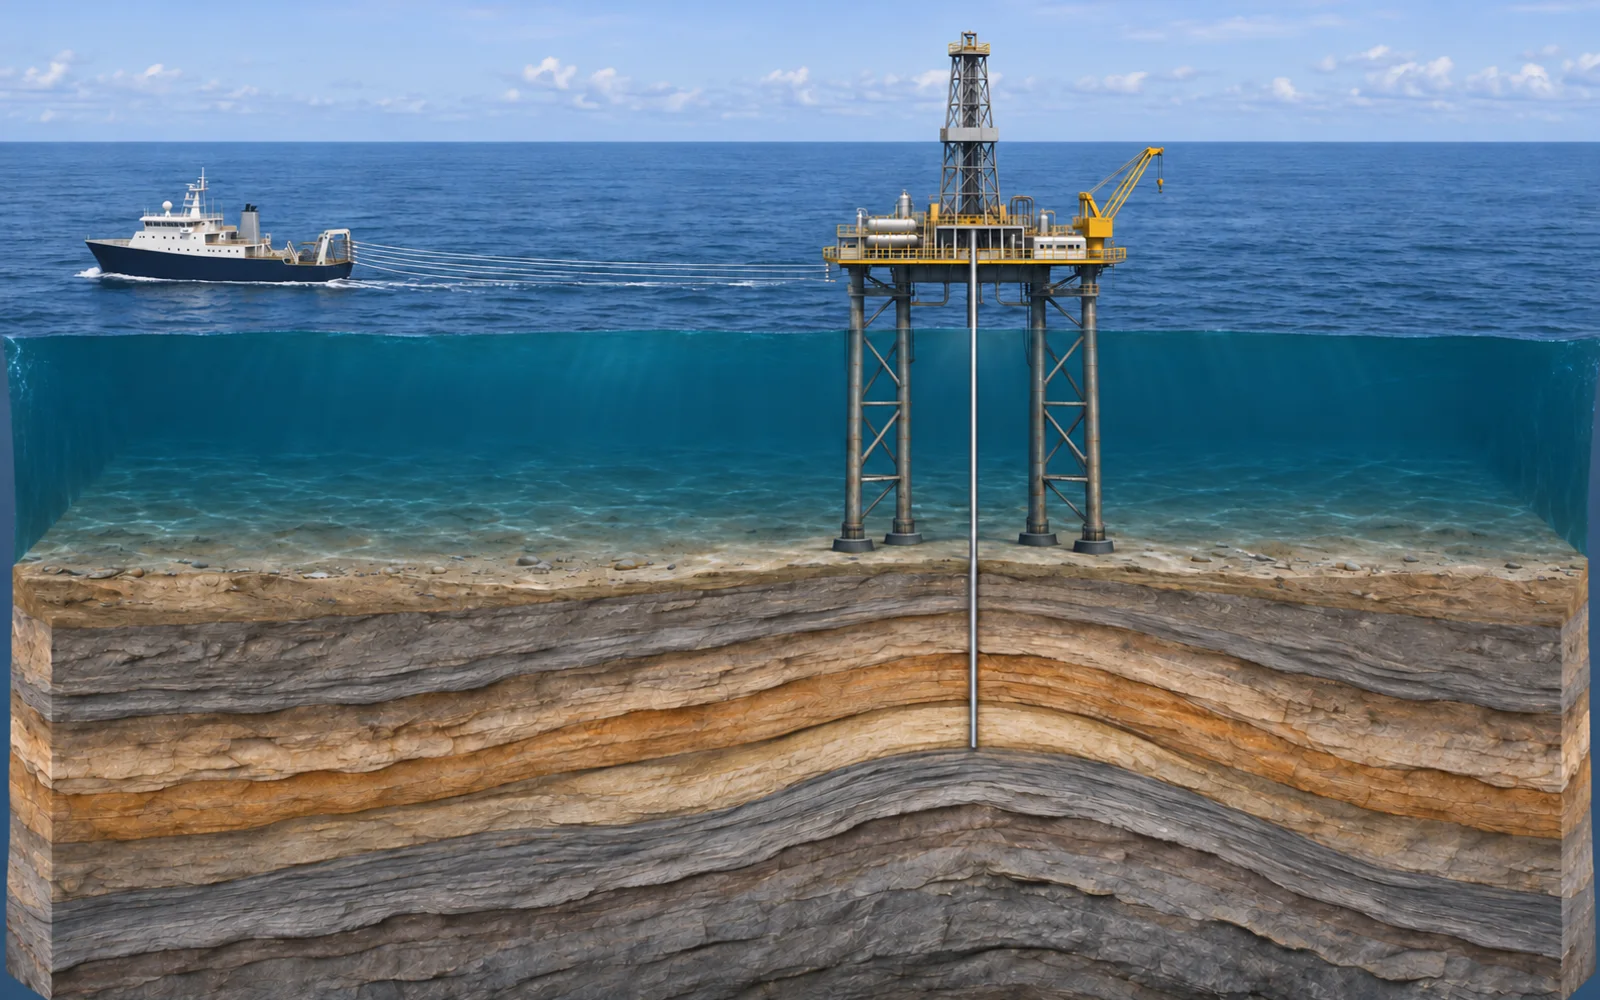
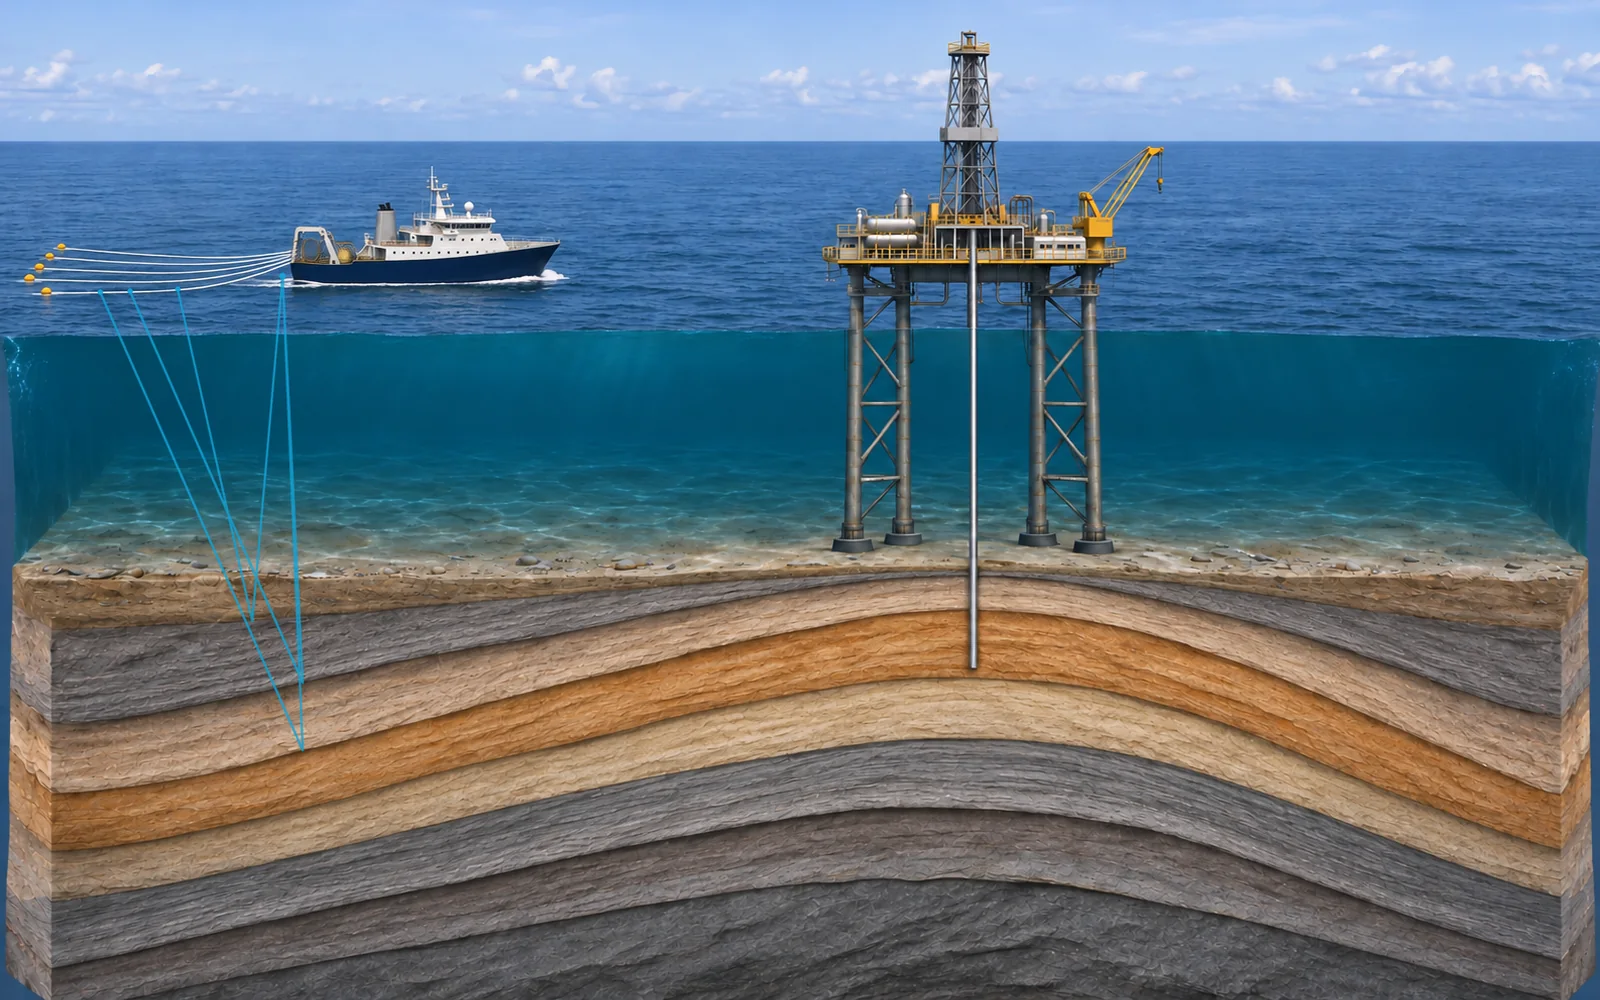
Technology 1.1: show seismic ray paths in opening cutaway

diff --git a/public/images/technology/geophysics/README.md b/public/images/technology/geophysics/README.md
@@ -112,7 +112,7 @@ Fictional illustrative scene, not a real company, equipment model, site or surve
 ## Topic 1.1 — Role of Reservoir Geophysics opening cutaway
 
 - 생성 날짜: 2026-11-09
-- 생성 도구: Codex 내장 image_gen (기본 내장 도구 모드, 생성 1회 및 표식 제거 수정 2회)
+- 생성 도구: Codex 내장 image_gen 장면 + 승인된 프로그램 음파 오버레이 (자세한 수정 이력은 아래 참고)
 - 설명: 가상의 장면을 표현한 AI 생성 이미지. 실제 회사·선박·시설·조사 자료를 재현한 것이 아닙니다.
 - 출력: 1600×1000, WebP 품질 84. 원본 PNG는 Codex 생성 이미지 폴더에 보관하며 저장소에 포함하지 않습니다.
 - 검수: 전체 장면과 확대된 선체·선실·리그·크레인·장비를 확인했습니다. 탐사선 1척과 선미에 연결된 스트리머, 배사 지층, 리그 1기와 그 아래로 이어지는 수직 시추정 1개를 확인했습니다.
@@ -149,6 +149,92 @@ Use case: precise-object-edit. Preserve this exact offshore cutaway image and al
 
 | 파일 | 출력 크기 | 품질 | 크기 (bytes) |
 | --- | --- | --- | --- |
-| gp-role-cutaway.webp | 1600×1000 | 84 | 193448 |
+| gp-role-cutaway.webp | 1600×1000 | 84 | 200390 |
 
 - 크기 맞춤: 원본 1586×992에서 가장자리만 비율을 맞춘 뒤 1600×1000으로 변환했습니다.
+
+
+### 후속 수정 — 스트리머·배사 구조·탄성파 반사 경로 (2026-11-09)
+
+- 최종 장면은 Codex 내장 image_gen으로 생성·수정했습니다. 탐사선은 오른쪽을 향하고, 스트리머는 왼쪽 열린 바다의 꼬리 부표에서 끝나며 리그와 연결되지 않습니다. 배사 구조를 강화하고 수직 시추정이 상부 배사 지층 안에서 끝나도록 수정했습니다.
+- 채택 원본: `exec-7f56e620-60f1-43c6-851f-386f6d5a2e24.png` (1586×992). 이 장면은 그대로 유지하고, 코디네이터의 명시적 승인에 따라 **음파 경로 3개와 음원·수신기 점만 프로그램으로 합성**했습니다. 배경 장면 전체를 절차적으로 그린 이미지가 아닙니다.
+- 내장 도구로 음파 경로 생성을 7회 시도했으나, 끊긴 선·잘못된 반사점·꼬리 선분 등의 문제로 모두 폐기했습니다. 아래에 해당 프롬프트를 기록하며, 최종 이미지에는 이 실패 출력들을 사용하지 않았습니다.
+
+#### 프로그램 오버레이 방법
+
+- 좌표는 원본 1586×992의 왼쪽 위를 (0, 0)으로 한 픽셀 좌표입니다. 공통 음원 S = (280, 274)는 선미 바로 뒤의 물에 있습니다. 수신점은 왼쪽으로 예인되는 가장 아래 스트리머의 밝은 케이블 중심 픽셀에서 찾았습니다.
+- 각 반사점 P는 눈에 보이는 지층 경계의 어두운 이음선을 측정해 정했습니다. 경계 주변 40px 구간의 9개 점을 최소제곱 직선으로 근사해 국소 접선 기울기 m을 구했습니다. 접선과 직교하는 단위 법선 n = normalize((-m, 1)), 입사 단위 벡터 d = normalize(P − S), 반사 벡터 r = d − 2(d·n)n을 사용했습니다. P + t·r과 스트리머 케이블이 만나는 점을 수신점 R로 삼았습니다.
+- 각 경로는 S → P → R의 두 직선 선분이며, 반사점 아래로 이어지는 선·화살표·추가 가지가 없습니다. 아래 각도는 측정한 국소 경계 법선에 대한 영상 평면상의 각도입니다.
+
+| 반사 경계 | 반사점 P | 국소 기울기 m | 스트리머 수신점 R | 입사각 = 반사각 |
+| --- | --- | --- | --- | --- |
+| 얕은 갈색층 / 회색 셰일 | (250, 616) | −0.0666667 | (176.21097, 287) | 8.82719° |
+| 회색 셰일 / 밝은 사암 | (300, 677) | −0.2366667 | (128.96144, 289) | 10.47388° |
+| 밝은 사암 / 황갈색 사암 | (300, 744) | −0.2333333 | (99.46490, 290) | 10.69737° |
+
+- 더 깊은 반사일수록 수신점은 스트리머를 따라 선미에서 더 멀리 있습니다. 계산한 입사각·반사각 차이는 10⁻⁸도 미만입니다. 지층 경계 자체는 교육용 AI 장면에서 측정한 값이며 실제 지질 자료가 아닙니다.
+- Pillow RGBA 오버레이를 4배 해상도에서 안티앨리어싱했습니다. 선은 cyan `#12A4D9`, 원본 기준 약 2.2px, 알파 190/255, 둥근 이음이며 0.65px 흐림의 매우 약한 광채(기본 알파의 16%)만 추가했습니다. 음원 반지름은 3.2px, 수신점 반지름은 2.6px입니다.
+- 원본 장면의 위·아래 가장자리 0.375px씩만 잘라 정확한 16:10으로 맞춘 뒤 동일 배율로 1600×1000으로 리샘플링해 반사각을 보존했습니다. WebP 품질 84, 200390 bytes입니다. 생성 장면과 오버레이 외의 콘텐츠·도식·코드는 수정하지 않았습니다.
+- 최종 이미지 전체와 확대된 음원·스트리머 수신점·반사점·선체·리그·크레인·장비를 확인했습니다. 세 경로가 각각 음원에서 출발해 경계에서 반사된 뒤 스트리머 수신점에 닿고, 리그·시추정을 통과하지 않으며 글자처럼 보이는 표식이 없음을 확인했습니다.
+
+#### 채택한 장면 수정 프롬프트 — 스트리머 분리와 배사 강화
+
+```text
+Use case: precise-object-edit. Correct exactly two scientific/composition problems in this offshore cutaway, preserving its realistic 3D cutaway rendering style, pale daylight sky, calm blue sea, transparent water column, flat seabed, single navy and white survey vessel, single yellow and grey drilling rig, muted sandstone and grey shale colors, lighting, and 16:10 landscape framing.
+FIRST: replace the vessel's direction and streamer geometry. Keep the one vessel in the LEFT HALF, around one third of the image width, but turn it so its pointed BOW faces RIGHT and its wide STERN faces LEFT. Several thin streamer cables must connect ONLY to the LEFT-facing stern and trail LEFTWARD across open sea, ending in small unmarked tail buoys BEFORE the left image edge. Show the full cables and tail buoys. Completely erase ALL existing cables between vessel and rig. The large area of sea between the vessel's right-facing bow and the rig MUST be clear uninterrupted open water. The rig stands alone with NO connection of any kind to the vessel, streamer cables, or buoys.
+SECOND: strengthen the sedimentary anticline on the front cut face. ALL major sedimentary layer boundaries must form a clear broad smooth convex-UP arch, like nested upside-down bowls, with their common crest directly beneath the rig at about 61 percent of image width. Both left and right flanks descend clearly away from the crest. Make the structural relief unmistakable: each major boundary rises roughly 120 to 160 pixels from flank to crest in a 1000-pixel-high image. No syncline, no central sag in any layer, no flat major boundaries, no wavy alternation. Keep the seabed itself approximately flat and leave the water-column depth unchanged; the shallowest rock unit can taper toward the dome crest. The SINGLE straight vertical well must remain connected to the rig's derrick and extend through water and seabed, ending inside the upper folded sandstone layer just below the crest, not down below the whole fold.
+Do not change anything else. No sound-wave paths. Entirely fictional educational scene. No text, no letter-like or number-like marks, no logos, no ship names, no equipment markings, no people, no arrows, no labels, no legend, no watermark, no border. All vessel and rig painted surfaces clean and unmarked. Output 1600x1000 landscape.
+```
+
+#### 폐기한 음파 생성 시도 1
+
+```text
+Use case: precise-object-edit. Add a small clear fan of seismic reflection ray paths to this exact offshore cutaway image, while preserving the corrected RIGHT-facing vessel at the left with its streamers trailing freely LEFT into small tail buoys, the completely clear sea gap separating vessel from the standalone rig, the broad clearly convex-up folded rock layers under the rig, the short single vertical well ending in the upper folded sandstone, and all existing styling, colors, textures, lighting, water column and seabed.
+Add THREE thin clean semi-transparent softly glowing cyan #12A4D9 seismic ray paths ONLY on the LEFT side beneath the vessel and its streamers, well clear of the rig and well. Show one tiny unlabelled cyan source point in the water immediately behind the vessel's LEFT stern, connected to a short source tow line from that stern. Add several tiny unlabelled receiver points ALONG the existing left-trailing streamer cables (not detached endpoints in the water).
+Every complete ray must start at that SAME source point just behind the stern, travel as ONE STRAIGHT thin segment down through the water and seabed to an actual visible sedimentary layer boundary, reflect at a sharp V-shaped tip touching that boundary, and travel as ONE STRAIGHT thin segment back up through the water to one of those receiver points ON a streamer cable. Three complete V-shaped ray paths, not six separate disconnected strokes. Use two or three different layer boundaries; the ray reaching the deeper boundary ends at a receiver farther left along a streamer. Angle of incidence equals angle of reflection measured about the local layer normal. No refraction bends or curved ray paths. Do not reflect from inside a rock layer or inside open water; each V tip must sit exactly on a visible rock-layer interface. Keep lines thin, restrained and readable, about 1 to 2 pixels wide in a 1600-pixel image, with faint glow. Do not obscure rock textures; do not pass any ray through the rig or well. Do not draw lines between vessel and rig. No arrowheads, arrows, broad beams, text, labels, numbers, logos, equipment markings, people or watermark. No extra wavefront arcs. Keep the whole scene and 16:10 framing otherwise unchanged.
+```
+
+#### 폐기한 음파 생성 시도 2
+
+```text
+Use case: precise-object-edit. Add exactly THREE complete simple seismic reflection V paths to the attached CLEAN offshore cutaway (which currently has no rays). Keep all other pixels and geometry as close as possible: right-facing vessel at left, left-trailing free streamer cables and orange tail buoys, clear open-water gap between vessel and independent rig, convex-up anticline under rig, single vertical well ending in the upper fold.
+Think of each ray as ONE unbroken two-segment polyline with exactly THREE vertices: SOURCE -> REFLECTION TIP -> RECEIVER. All three share the same SOURCE vertex, the tiny cyan source just behind the LEFT stern at approximately pixel (285,280) in this 1586x992 image. A short small tow line connects that source to the stern. RECEIVERS must be tiny cyan dots sitting directly ON existing streamer cables to the left, approximately (220,275), (130,280), and (65,285). Show only those three receiver dots and the source dot.
+Draw ray A from source (285,280) straight down to the first visible shale/sandstone interface around (310,680), then straight back up to receiver (220,275). Draw ray B from the SAME source (285,280) straight down to the next deeper sandstone/amber interface around (280,760), then straight back up to receiver (130,280). Draw ray C from the SAME source (285,280) straight down to the next deeper amber/sandstone interface around (260,845), then straight back up to receiver (65,285). Adjust each tip by a few pixels to touch the actual visible layer boundary exactly, and keep incident/reflected angles equal about the tilted local normal. The reflection tips are all to the right of the source-receiver midpoints because the strata slope gently upward to the right. Each path must have one downward leg and one upward leg; all THREE downward legs visibly connect to the same source at the stern, all THREE upward legs visibly connect to their streamer receivers. No extra segments below the reflection tips, no loose unattached ends, no branching, no rays ending inside a rock unit, no strokes ending in the water. Six thin segments total, paired into exactly three complete Vs.
+Use thin 1-pixel semi-transparent glowing cyan #12A4D9 lines, restrained and readable over water and rock textures, with no arrowheads or arrows. Keep all rays entirely in the left quarter of the scene, far away from rig and well. No letters, numbers, logos, labels, text-like marks, people, thick beams, or additional diagrams. Preserve 16:10 landscape and the realistic 3D cutaway style.
+```
+
+#### 폐기한 음파 생성 시도 3
+
+```text
+Use case: precise-object-edit. Fix ONLY the deepest cyan seismic ray in this image; leave the other TWO shallower complete cyan V paths, source point, receiver dots, vessel, streamers, tail buoys, rig, well, geology and entire scene unchanged.
+The deepest path currently has a wrong early crossing/kink inside the pale sandstone plus a dangling tail down to the orange layer. Replace that ONE deepest path with one simple clean unbranched V made of exactly two straight segments: start at the SAME cyan source dot immediately behind the vessel stern (approximately 285,280); draw straight to a single reflection vertex EXACTLY on the boundary between the pale sandstone and orange sandstone at approximately (235,760); then draw straight back up to the farthest-left cyan streamer receiver near (52,290). At (235,760), both segments must meet cleanly at one sharp point on that boundary, with no crossing, twist, loop, hook, tail, double stroke, or line extending below it. Erase all old deepest-path fragments fully, especially the crossover inside the pale sandstone near (220,730). Restore underlying rock texture where old fragments were removed. The result must contain exactly THREE complete V-shaped source-boundary-receiver paths and no loose line ends. Keep all three lines thin, translucent cyan without arrows or text. Do not alter any of the two shallower V paths or any other aspect of the scene. No writing, symbols, numbers, logos or people.
+```
+
+#### 폐기한 음파 생성 시도 4
+
+```text
+Make one tiny correction to the attached image. The deepest cyan V-shaped seismic ray, at the far left, has a little twisted kink just above its lowest point in the pale sandstone. Remove only that kink. Its two straight legs should meet cleanly at the existing lowest cyan point on the pale-sandstone/orange-sandstone boundary. Preserve exactly all the other cyan rays, their reflection tips, the common source dot, the receiver dots, and every other detail of this image. No new lines, no deleted rays, no loose ends, no writing.
+```
+
+#### 폐기한 음파 생성 시도 5
+
+```text
+Image 1 is the full edit target. Image 2 is ONLY a magnified reference crop of its lower-left ray tips, supplied so you can see the error clearly. Return the FULL landscape image 1, not the crop.
+In image 2, the bottom cyan path crosses itself inside the pale sandstone then continues as a dangling tail to the orange interface. That is WRONG. Replace that entire deepest cyan path in image 1 with two straight segments meeting at ONE VERTEX exactly at the pale sandstone / orange sandstone boundary (the bottom end of the current tail). Move the incoming leg from the common source and outgoing leg to the far-left receiver so both join at that bottom point. There must be a clean narrow V, NOT a Y, crossing, loop, or tail. Remove the old early intersection and all old segments. Draw a straight cyan segment from the existing common source behind the vessel stern to the bottom reflection point, and another straight cyan segment from that point back up to the far-left existing cyan streamer receiver. Preserve the other two shallower cyan V paths exactly. Preserve all rock layers, vessel, free streamers, separate rig, well, colors, lighting, and 16:10 full image framing. No text, no markings, no arrows, no additional lines.
+```
+
+#### 폐기한 음파 생성 시도 6
+
+```text
+Use case: scientific-educational. Edit this realistic offshore cutaway to show three scientifically coherent seismic reflection rays with more room for the ray geometry.
+Preserve the entire rig, vertical well, strongly arched anticline, rock textures, water column, seabed, sky, colors and lighting. Keep exactly one right-facing navy/white survey vessel on the left side, but shift it rightward slightly so its LEFT stern is near x=500 and its RIGHT bow near x=740 in the 1586-wide image. The rig stays where it is at x=960. Keep a clear gap of open sea between vessel and rig. The rig is entirely unconnected to the vessel.
+Streamers trail freely LEFT from the stern across open water, ending at small orange tail buoys around x=60. Put a small cyan source dot immediately behind the stern, around (490,285), and three tiny cyan receivers on the streamers around (340,285), (220,285), (100,285).
+Add exactly THREE complete V-shaped reflection paths, EACH with exactly two straight segments sharing ONE sharp lower vertex on a rock-layer boundary. All three start at the common source dot, turn at their boundary, and end at one streamer receiver. The shallow reflection reaches the tan/grey boundary and returns to the nearest receiver. The middle reflection reaches the grey/pale-sandstone boundary and returns to the middle receiver. The deepest reflection reaches the pale-sandstone/orange boundary and returns to the farthest receiver. The two segments of EACH V must meet exactly at the boundary: no crossing at that vertex, no tails beneath it, no Y junction, no dangling line, no loops, no kinks, no disconnected ends. Incident and reflected angles are equal about the local layer normal. Rays are straight, thin, semi-transparent cyan #12A4D9 with restrained glow; no arrowheads, arrows or thick beams. All rays are confined to the left half, far from the rig and well. Rays may cross each other en route but each individual V must have exactly two straight legs that end at its reflection vertex. Use wider V shapes so the three paired paths are readable, rather than nearly overlapping vertical strokes.
+No text, labels, symbols, numbers, people, logos, hull names, equipment markings or watermark. Entire scene remains a realistic 3D offshore block cutaway in landscape 16:10.
+```
+
+#### 폐기한 음파 생성 시도 7
+
+```text
+Add ONE seismic reflection path to this otherwise unchanged image. Add one small cyan source dot immediately behind the left stern of the right-facing vessel, and one tiny cyan receiver dot on a streamer to its left. Draw ONE continuous thin translucent cyan V-shaped polyline: from the source down through water and seabed to the boundary between the shallow tan rock and the grey shale, then straight back up to that receiver. Exactly TWO straight strokes meet at one sharp lower point ON that tan-grey boundary. No other cyan lines. No arrows or text. Keep the vessel, all free left-trailing streamers and tail buoys, separate rig, well ending in the fold, arched geology, sky, colors and framing exactly unchanged.
+```
